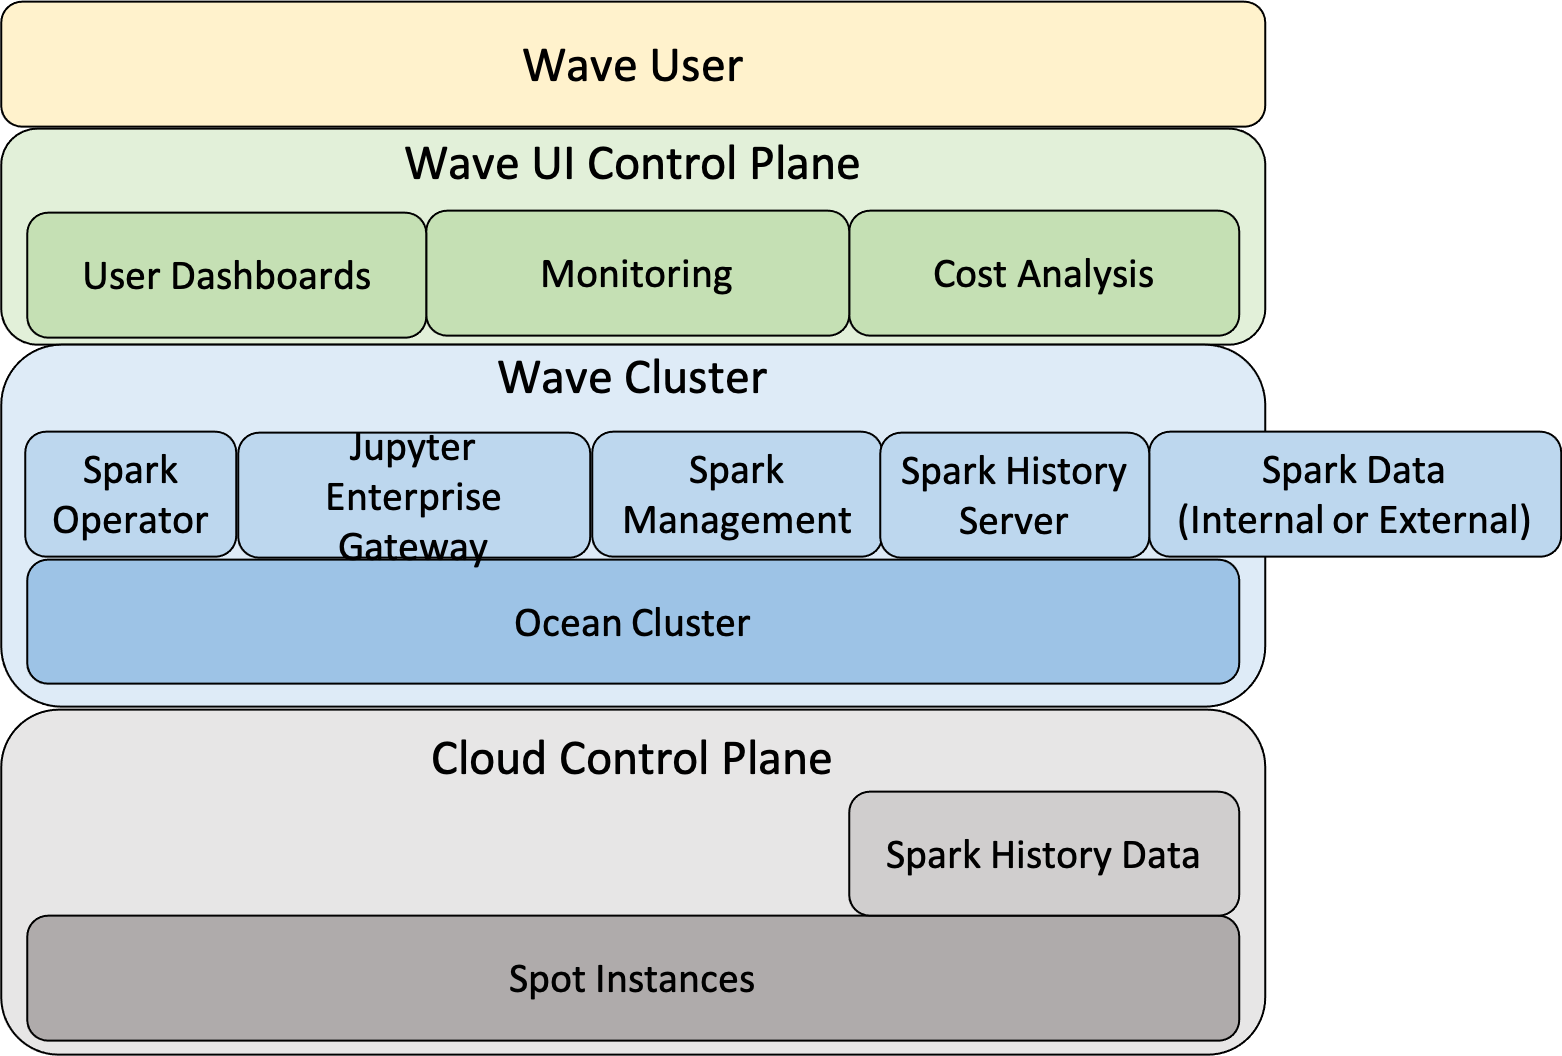
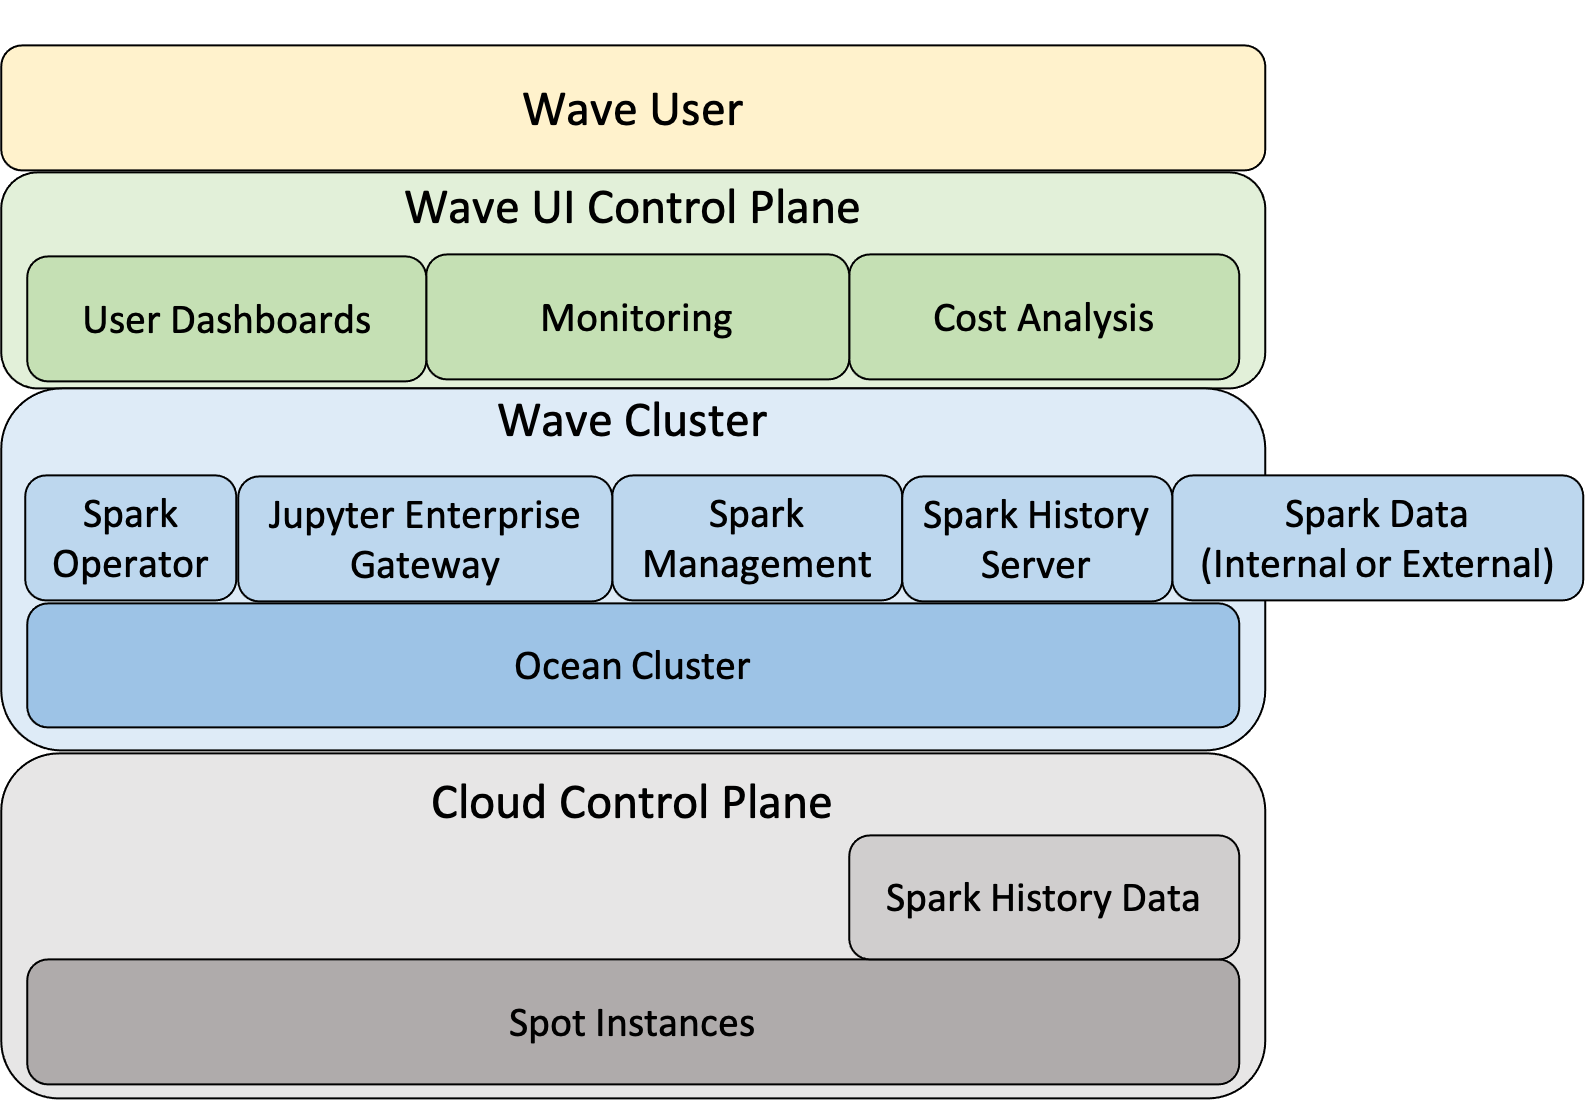
fixes

Changed region(s): [[0.0, 0.0, 1.0, 1.0]]

diff --git a/src/docs/wave/README.md b/src/docs/wave/README.md
@@ -4,13 +4,13 @@ Using Wave, you can automate infrastructure provisioning, management, and scalin
 
 From setup and configuration to resource provisioning, management, and teardown, Wave uses Spot’s AI-based engine to continuously optimize Spark clusters, choosing the best infrastructure for an application, based on its real-time requirements. Built on top of Spot Ocean, Wave makes it possible to reliably run Spark applications on spot, reserved and on-demand instances, delivering up to 90% cost savings.
 
-## Benefits
+## Reliable, Scalable, Cost-efficient
 
 Wave enables the teams responsible for deploying and operating big data solutions in the cloud--data platform teams, data infrastructure teams, big data operations teams--to deliver the most reliable, scalable and cost-efficient infrastructure possible.  Built on proven Spot by NetApp technology and supporting widely adopted big data technologies, Wave enables organizations to execute Spark jobs in a fraction of the time, at a fraction of the infrastructure cost, and with a fraction of the management burden. Using Wave, you will:
 
-- Eliminate manual infrastructure management - Advanced automation removes operational barriers for provisioning, scaling, and monitoring cloud compute.
+- Eliminate manual infrastructure management. Advanced automation removes operational barriers for provisioning, scaling, and monitoring cloud compute.
 - Continuously optimize Spark applications and save up to 90% on infrastructure costs. You will run applications reliably on an optimal mix of spot, on-demand, and reserved instances to minimize cluster footprint and reduce cloud costs.
-- Enjoy rich observability into resource utilization - Robust cost metrics and analysis uncovers the true cost of data applications and pipelines in the cloud.
+- Enjoy rich observability into resource utilization. Robust cost metrics and analysis uncovers the true cost of data applications and pipelines in the cloud.
 
 ## What’s Next?
 - Learn more about Wave in the [Wave Overview](wave/wave-overview).

diff --git a/src/docs/wave/wave-overview.md b/src/docs/wave/wave-overview.md
@@ -24,7 +24,7 @@ Wave is the ideal solution for cloud-native big data. With Wave, you can bring i
 
 Wave utilizes Ocean’s serverless architecture, enabling you to run Spark workloads on Kubernetes without worrying about the underlying infrastructure. The diagram below shows an overview of the Wave architecture.
 
-<img src="/wave/_media/overview-01.png" />
+<img src="/wave/_media/overview-01.png" width="793" height="550" />
 
 - Wave UI Control Plane: Provides the user full visibility of monitoring, system health, and cost analysis data and enables management of Wave clusters.
 - Wave Cluster: Kubernetes cluster environment including the Wave and Ocean execution components.
@@ -34,7 +34,7 @@ Wave utilizes Ocean’s serverless architecture, enabling you to run Spark workl
 
 The illustration below describes the basic data flow and control at an overview level.
 
-<img src="/wave/_media/overview-02.png" />
+<img src="/wave/_media/overview-02.png" width="785" height="508" />
 
 - Wave Console: The user manages Wave clusters in the Wave console and views monitoring and cost analysis information.
 - SparkSubmit: The user initiates Spark jobs using SparkSubmit. SparkSubmit sends the job via Kubernetes API to the SparkDriverPod.

diff --git a/src/docs/wave/getting-started/README.md b/src/docs/wave/getting-started/README.md
@@ -115,10 +115,12 @@ After you enter the creation command, the following major events take place:
 To view the state of the newly created cluster, do the following:
 1. Get the cluster-id by running the command below. A list of all the Wave clusters appears.
 
-`$ spotctl wave get cluster
+```
+$ spotctl wave get cluster
 ID NAME STATE CREATED UPDATED
 wc-ade635c8e90542d4 natef-1615242717 AVAILABLE 3 days ago 9 seconds ago
-`
+```
+
 2. In the list of clusters, find the one just created and copy the cluster-id.
 3. Enter the command below using the relevant cluster-id, for example:
 
@@ -298,5 +300,5 @@ CLUSTER_ID is the ID of your Wave cluster.
 The certificate has been issued from the Wave cluster and is unique to this endpoint. The self-signed cert is created with [cert-manager](https://cert-manager.io/docs/) running in the cluster. When you try to reach the page, some browser warnings may appear, which you should cancel.
 
 ## What’s Next?
-- Learn how to Manage your Wave clusters.
+- Learn how to [Manage your Wave clusters](wave/features/cluster-management).
 - Learn more about the information available in the [Wave Cluster Overview](wave/wave-overview).
